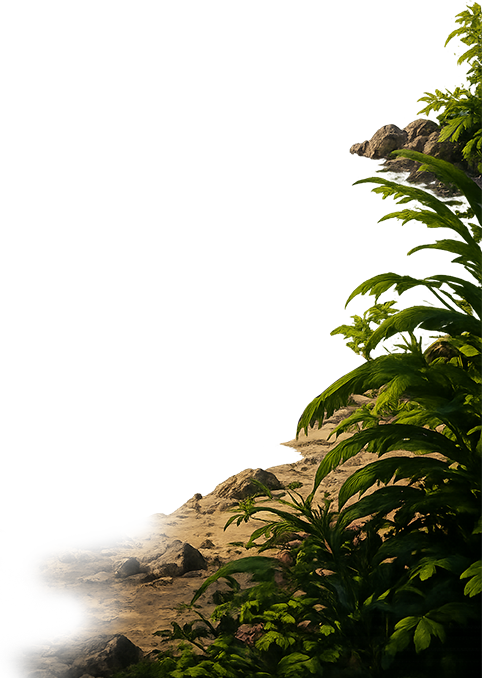
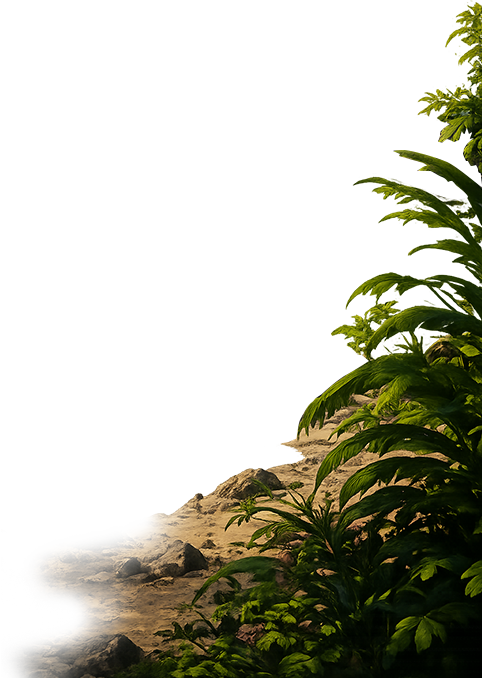
updated art

diff --git a/island-scene.js b/island-scene.js
@@ -21,11 +21,13 @@
     shadow: { file: '_0000_shadow.png', x: 0, y: 0, w: 1200, h: 1080 },
     props: [
       { file: '_0012_ship_02.png', x: 460, y: 387, w: 97, h: 90, id: 'shipFar' },
-      { file: '_0007_mountain-with-waterfall.png', x: 685, y: 181, w: 515, h: 340, id: 'mountain' },
+      { file: 'mountain.png', x: 652, y: 170, w: 581, h: 396, id: 'mountain' },
+      { file: 'mountain-waves.png', x: 652, y: 426, w: 581, h: 140, id: 'mountainWaves' },
       { file: '_0009_Layer-2.png', x: 61, y: 494, w: 310, h: 93, id: 'wake' },
       { file: '_0006_Layer-4.png', x: 397, y: 455, w: 407, h: 226, id: 'village' },
       { file: '_0010_ship.png', x: 57, y: 194, w: 311, h: 355, id: 'ship' },
       { file: '_0008_fort.png', x: 671, y: 617, w: 378, h: 235, id: 'fort' },
+      { file: 'fort-waves.png', x: 605, y: 770, w: 511, h: 154, id: 'fortWaves' },
       { file: '_0011_treasure-box.png', x: 43, y: 651, w: 386, h: 247, id: 'treasure' },
       { file: '_0005_palm-tree-branch_03-left.png', x: 0, y: 0, w: 592, h: 321, id: 'palmL' },
       { file: '_0004_palm-branch-02-right.png', x: 772, y: 0, w: 425, h: 210, id: 'palmR2' },
@@ -50,6 +52,7 @@
   let renderer, scene, camera, clock;
   let artRoot, view = { scaleX: 1, scaleY: 1, ox: 0, oy: 0 };
   let waterMat, wakeMat, cloudMesh, shipMesh, shipShadow, mountainMesh;
+  let waveMats = [];
   let palmMeshes = [];
   let mistPoints, seagulls = [];
   let ripples = [];
@@ -496,8 +499,9 @@
     LAYOUT.props.forEach((p) => {
       let mat;
       if (p.id === 'wake') {
-        wakeMat = makeWakeMaterial(texMap[p.file]);
-        mat = wakeMat;
+        mat = makeWakeMaterial(texMap[p.file]);
+        waveMats.push(mat);
+        wakeMat = mat;
       }
       const mesh = makePlane(texMap[p.file], p, z++, mat);
       mesh.userData.id = p.id;
@@ -526,11 +530,18 @@
       if (p.id.startsWith('palm')) palmMeshes.push(mesh);
     });
 
-    // The breaking wave (_0009) belongs in front of the ship's lower hull,
-    // curling against the waterline like in the reference art.
+    // Shore waves sit in front of their landmasses at the waterline.
     if (propMeshes.wake && shipMesh) {
       propMeshes.wake.position.z = shipMesh.position.z + 0.5;
       propMeshes.wake.userData.basePos = propMeshes.wake.position.clone();
+    }
+    if (propMeshes.mountainWaves && mountainMesh) {
+      propMeshes.mountainWaves.position.z = mountainMesh.position.z + 0.4;
+      propMeshes.mountainWaves.userData.basePos = propMeshes.mountainWaves.position.clone();
+    }
+    if (propMeshes.fortWaves && propMeshes.fort) {
+      propMeshes.fortWaves.position.z = propMeshes.fort.position.z + 0.4;
+      propMeshes.fortWaves.userData.basePos = propMeshes.fortWaves.position.clone();
     }
 
     // Soft waterline shadow grounds the ship without darkening its artwork.
@@ -755,7 +766,9 @@
           if (wakeMat) wakeMat.userData.uSwell.value = heave;
         }
       }
-      if (wakeMat) wakeMat.userData.uTime.value = t;
+      for (let i = 0; i < waveMats.length; i++) {
+        waveMats[i].userData.uTime.value = t;
+      }
       if (propMeshes.shipFar) {
         const b = propMeshes.shipFar.userData.basePos;
         propMeshes.shipFar.position.y = b.y + Math.sin(t * 0.8 + 1) * 0.004;